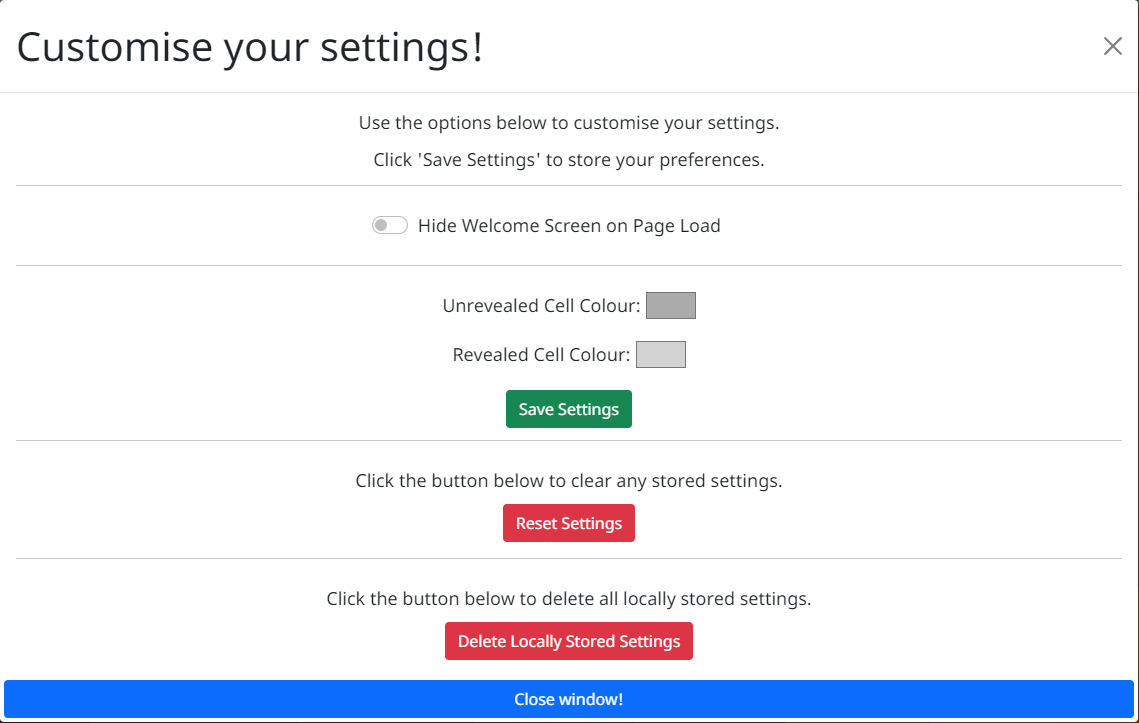
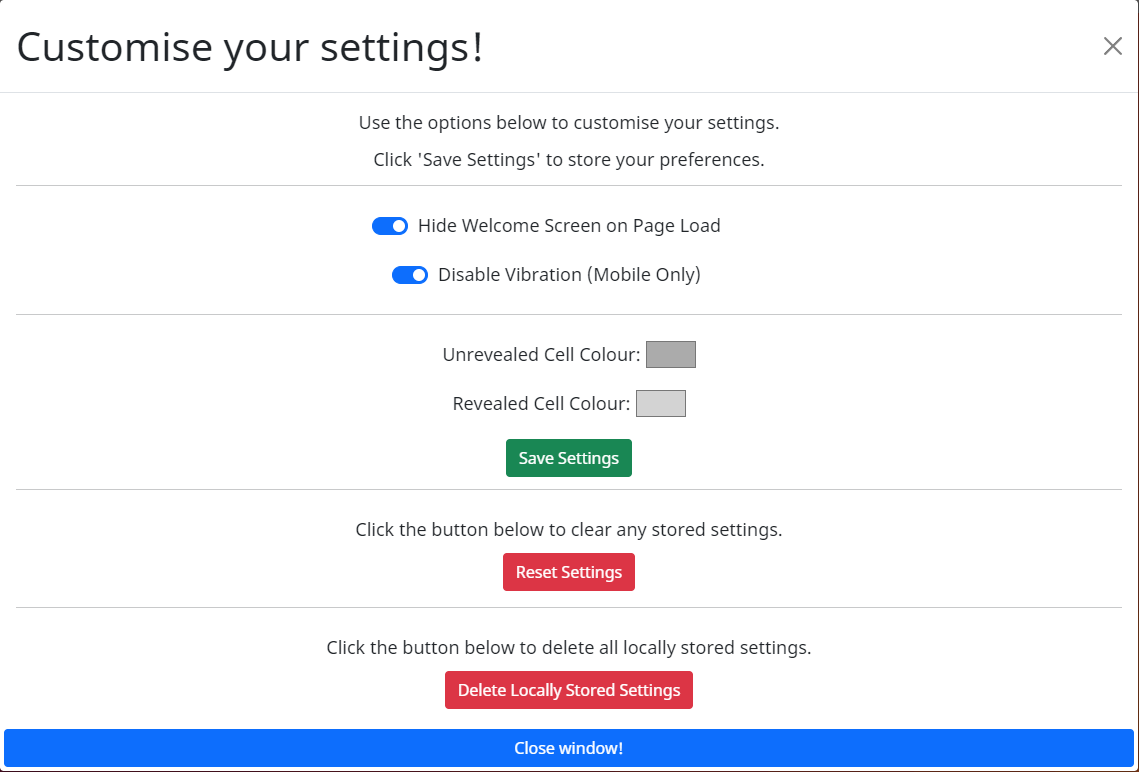
#10.05 - Updated images, small readme change, updated welcomecontent.html

diff --git a/assets/html/welcomecontent.html b/assets/html/welcomecontent.html
@@ -26,6 +26,7 @@
                 <li>Unrevealed Cell Colour</li>
                 <li>Revealed Cell Colour</li>
                 <li>If the welcome message should be displayed on your next visit</li>
+                <li>If you have disabled vibration when you lose a game (Mobile only)</li>
             </ul>
         </p>
         <p class="text-center">More information can be found on the <a href="https://en.wikipedia.org/wiki/Web_storage#Local_and_session_storage" target="_blank">Wikipedia article about Web Storage</a>.</p>

diff --git a/README.md b/README.md
@@ -218,6 +218,8 @@ The was created as my second portfolio project for Code Institute's Diploma in W
 
     If the user clicks on a bomb, it will trigger the lose condition and the above modal is displayed.
 
+    If the user is playing on a mobile device, it will vibrate unless disabled in the settings.
+
     It is intentionally minimal and allow for the user to close the modal with the cross in the top right and review their time, or click the 'Play again?' button, at which point a game of the same difficulty will be started.
 
     #
@@ -374,6 +376,10 @@ This warning shows due to the use of JQuery and does not impact the code in any 
 
     #
 
+    The site was tested manually across a range of devices to ensure all links and styling work correctly and to ensure responsiveness across a range of devices. All features on the page were tested, especially the javascript element, to ensure functionality was not impacted in any way. Testing was carried out on multiple browsers such as Google Chrome, Microsoft Edge, Mozilla Firefox, Safari and Opera. Testing was carried out on an Apple iPhone, Apple iPhone 13, Samsung Galaxy S20 FE, Samsung Galaxy A51, Apple iPad Pro & Windows 10 Desktops.
+
+    Testing was carried out across multiple physical devices as well as using the tools made available via [Browser Stack](https://www.browserstack.com/).
+
     -   ## Lighthouse Testing
 
         Lighthouse Desktop Test
@@ -423,6 +429,7 @@ This warning shows due to the use of JQuery and does not impact the code in any 
     -   [Am I Responsive](http://ami.responsivedesign.is/) - Used to verify responsiveness of website on different devices.
     -   [Balsamiq](https://balsamiq.com/) - Used to generate Wireframe images.
     -   [Bootstrap](https://getbootstrap.com/) - Main framework used for the site, with a focus on responsiveness.
+    -   [Browser Stack](https://www.browserstack.com/) - Used for Cross Site Browser Testing.
     -   [Chrome Dev Tools](https://developer.chrome.com/docs/devtools/) - Used for overall development and tweaking, including testing responsiveness and performance.
     -   [Favicon.io](https://favicon.io) - Used to generate Favicon image.
     -   [Font Awesome](https://fontawesome.com/) - Used for icons on floating buttons.
@@ -430,7 +437,6 @@ This warning shows due to the use of JQuery and does not impact the code in any 
     -   [Google Fonts](https://fonts.google.com/) - Used to import and alter fonts on the page.
     -   [JQuery](https://en.wikipedia.org/wiki/JQuery) - Used to simplify definition of DOM elements, but used minimally with a preference for vanilla Javascript.
     -   [JSHint](https://jshint.com/about/) - Linter used to flag errors, bugs and warnings.
-    -   [LambdaTest](https://www.lambdatest.com/) - Used for Cross Site Browser Testing.
     -   [Parcel](https://www.npmjs.com/package/parcel) - Used to host website locally to aid testing before updates were commited to GitHub.
     -   [Prettier](https://marketplace.visualstudio.com/items?itemName=esbenp.prettier-vscode) - Used for consistent code formatting.
     -   [Slack](https://slack.com/) - Used for support and advice from the Code Insitute Community.
